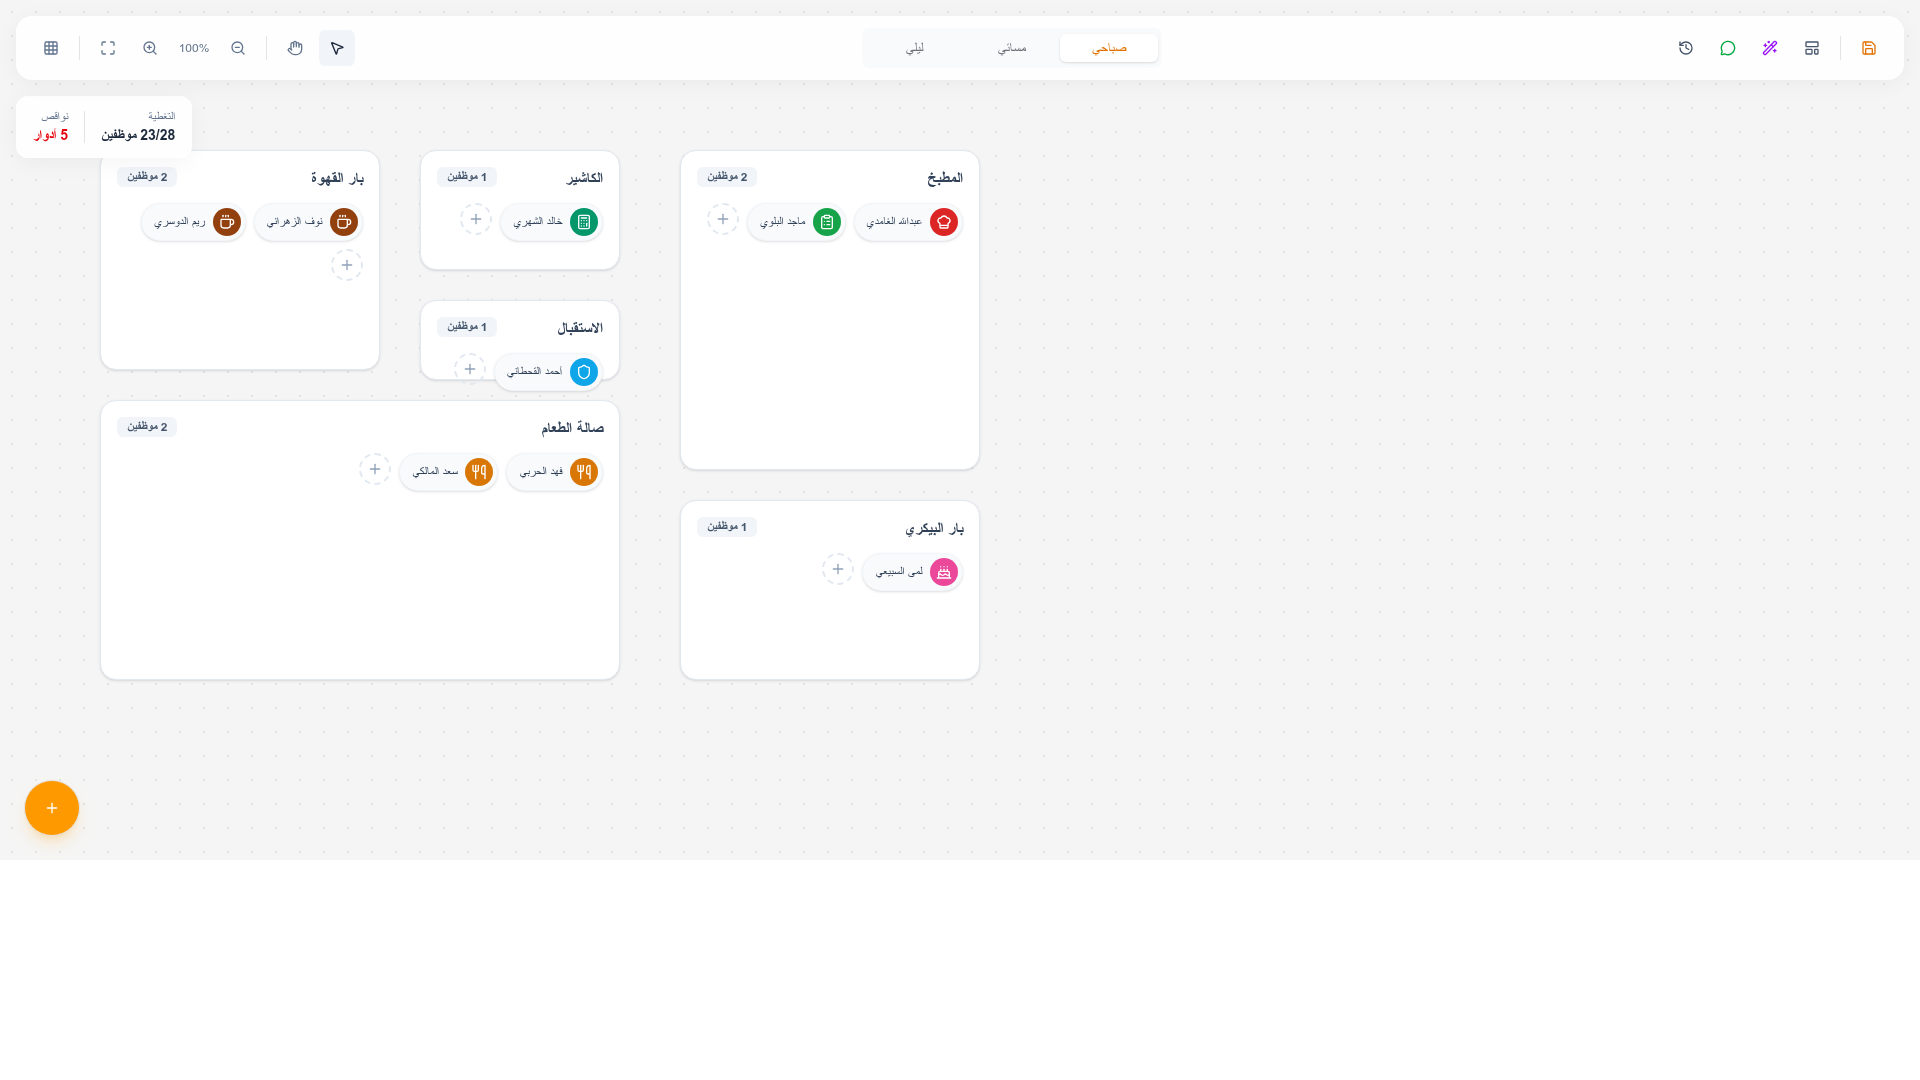
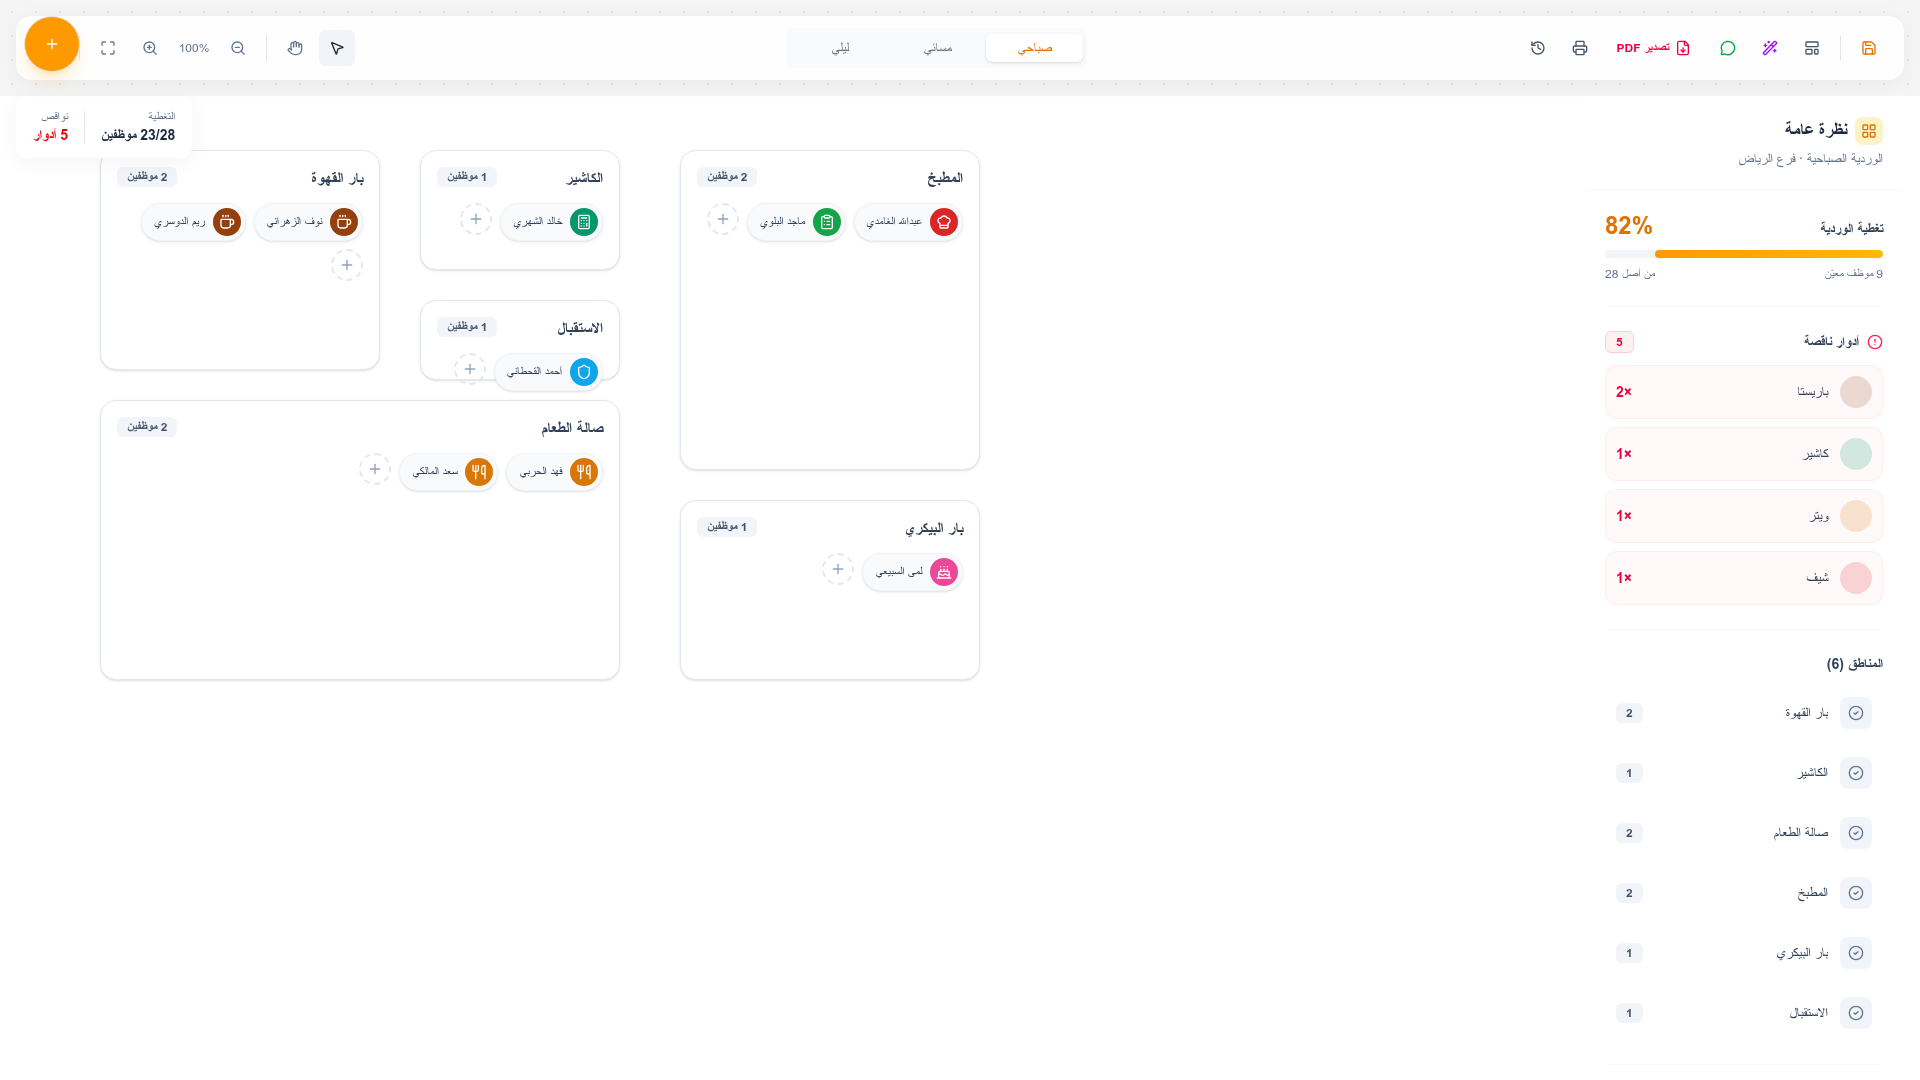
Add persistent sidebar and PDF export to floor plan view
Update the floor plan redesign component to include an always-visible sidebar with an overview, and add a PDF export button to the toolbar.

Replit-Commit-Author: Agent
Replit-Commit-Session-Id: e5fd94e0-1e8e-4852-8f43-6661ae21aa6f
Replit-Commit-Checkpoint-Type: full_checkpoint
Replit-Commit-Event-Id: b4d21e09-7a34-4f9b-8865-47b90dd0d802
Replit-Commit-Screenshot-Url: https://storage.googleapis.com/screenshot-production-us-central1/ccfdd11e-6206-49ce-b112-34cf69af608e/e5fd94e0-1e8e-4852-8f43-6661ae21aa6f/a0yk4Di
Replit-Helium-Checkpoint-Created: true

diff --git a/artifacts/mockup-sandbox/src/components/mockups/floor-plan-redesign/CompactInspector.tsx b/artifacts/mockup-sandbox/src/components/mockups/floor-plan-redesign/CompactInspector.tsx
@@ -4,7 +4,8 @@ import {
   Cake, Handshake, ClipboardList, Sparkles, 
   ZoomIn, ZoomOut, Maximize, Grid, Magnet, Lock, 
   Undo, Redo, Hand, Search, Save, Printer, History, 
-  LayoutTemplate, Wand2, MessageCircle, Plus, X, ChevronLeft, MoreHorizontal, UserPlus, SlidersHorizontal, MousePointer2
+  LayoutTemplate, Wand2, MessageCircle, Plus, X, ChevronLeft, MoreHorizontal, UserPlus, SlidersHorizontal, MousePointer2,
+  FileDown, LayoutGrid, AlertCircle, CheckCircle2
 } from 'lucide-react';
 import { Button } from '@/components/ui/button';
 import { Badge } from '@/components/ui/badge';
@@ -57,6 +58,13 @@ export function CompactInspector() {
   const [selectedZoneId, setSelectedZoneId] = useState<string | null>(null);
 
   const selectedZone = ZONES.find((z) => z.id === selectedZoneId);
+  const totalAssigned = ZONES.reduce((sum, z) => sum + z.employeeIds.length, 0);
+  const missingByRole = [
+    { role: 'باريستا', count: 2, color: '#92400e' },
+    { role: 'كاشير', count: 1, color: '#059669' },
+    { role: 'ويتر', count: 1, color: '#d97706' },
+    { role: 'شيف', count: 1, color: '#dc2626' },
+  ];
 
   return (
     <div className="butter-inspector-root relative w-full overflow-hidden flex flex-col" style={{ height: '860px' }} dir="rtl">
@@ -82,6 +90,19 @@ export function CompactInspector() {
             <Tooltip>
               <TooltipTrigger asChild><Button variant="ghost" size="icon" className="h-9 w-9 text-green-600 hover:text-green-700 hover:bg-green-50"><MessageCircle className="w-5 h-5" /></Button></TooltipTrigger>
               <TooltipContent>بث واتساب</TooltipContent>
+            </Tooltip>
+            <Tooltip>
+              <TooltipTrigger asChild>
+                <Button variant="ghost" size="sm" className="h-9 gap-1.5 px-3 text-rose-600 hover:text-rose-700 hover:bg-rose-50 font-semibold" onClick={() => window.print()}>
+                  <FileDown className="w-4 h-4" />
+                  <span className="text-xs">تصدير PDF</span>
+                </Button>
+              </TooltipTrigger>
+              <TooltipContent>تصدير الخطة بصيغة PDF</TooltipContent>
+            </Tooltip>
+            <Tooltip>
+              <TooltipTrigger asChild><Button variant="ghost" size="icon" className="h-9 w-9 text-slate-600"><Printer className="w-5 h-5" /></Button></TooltipTrigger>
+              <TooltipContent>طباعة</TooltipContent>
             </Tooltip>
             <Tooltip>
               <TooltipTrigger asChild><Button variant="ghost" size="icon" className="h-9 w-9 text-slate-600"><History className="w-5 h-5" /></Button></TooltipTrigger>
@@ -146,8 +167,8 @@ export function CompactInspector() {
         </div>
       </div>
 
-      {/* Canvas Area */}
-      <main className="flex-1 w-full h-full relative butter-canvas-pattern pt-24" onClick={() => setSelectedZoneId(null)}>
+      {/* Canvas Area — leave room on the right for the always-visible inspector */}
+      <main className="flex-1 h-full relative butter-canvas-pattern pt-24 pr-[336px]" onClick={() => setSelectedZoneId(null)}>
         {ZONES.map((zone) => (
           <div
             key={zone.id}
@@ -193,16 +214,19 @@ export function CompactInspector() {
         ))}
       </main>
 
-      {/* Floating Inspector Panel */}
-      <div 
-        className={`absolute top-24 right-4 bottom-24 w-80 butter-glass rounded-2xl border border-slate-200/60 shadow-xl transition-all duration-300 ease-out transform ${
-          selectedZoneId ? 'translate-x-0 opacity-100' : 'translate-x-8 opacity-0 pointer-events-none'
-        } flex flex-col z-20`}
+      {/* Always-visible Inspector Panel — overview when nothing selected, zone details when a zone is clicked */}
+      <aside
+        className="absolute top-24 right-4 bottom-6 w-80 butter-glass rounded-2xl border border-slate-200/60 shadow-xl flex flex-col z-20"
       >
-        {selectedZone && (
+        {selectedZone ? (
           <>
             <div className="p-5 border-b border-slate-100/50 flex justify-between items-start">
               <div>
+                <div className="flex items-center gap-2 text-xs text-slate-500 mb-1">
+                  <button onClick={() => setSelectedZoneId(null)} className="hover:text-amber-600 transition-colors">نظرة عامة</button>
+                  <ChevronLeft className="w-3 h-3 rotate-180" />
+                  <span>منطقة</span>
+                </div>
                 <h3 className="font-bold text-lg text-slate-800">{selectedZone.name}</h3>
                 <p className="text-sm text-slate-500 mt-1">تفاصيل المنطقة والتغطية</p>
               </div>
@@ -210,7 +234,7 @@ export function CompactInspector() {
                 <X className="w-4 h-4" />
               </Button>
             </div>
-            
+
             <ScrollArea className="flex-1 p-5" dir="rtl">
               <div className="space-y-6">
                 <div>
@@ -218,17 +242,17 @@ export function CompactInspector() {
                     <h4 className="text-sm font-bold text-slate-700">الموظفين المعينين</h4>
                     <Badge variant="outline" className="text-amber-600 border-amber-200 bg-amber-50">{selectedZone.employeeIds.length}</Badge>
                   </div>
-                  
+
                   <div className="space-y-2">
                     {selectedZone.employeeIds.map((empId) => {
                       const emp = EMPLOYEES.find(e => e.id === empId);
                       if (!emp) return null;
                       const role = ROLES[emp.roleId as keyof typeof ROLES];
                       const Icon = role.icon;
-                      
+
                       return (
                         <div key={emp.id} className="flex items-center gap-3 p-2 rounded-xl hover:bg-slate-50/80 transition-colors border border-transparent hover:border-slate-100 group">
-                          <div 
+                          <div
                             className={`w-10 h-10 rounded-full flex items-center justify-center text-white shrink-0 shadow-sm`}
                             style={{ backgroundColor: role.color }}
                           >
@@ -245,7 +269,7 @@ export function CompactInspector() {
                       );
                     })}
                   </div>
-                  
+
                   <Button variant="outline" className="w-full mt-3 bg-white/50 border-dashed text-slate-500 hover:text-amber-600 hover:border-amber-200 hover:bg-amber-50/50">
                     <UserPlus className="w-4 h-4 ml-2" />
                     تعيين موظف
@@ -271,8 +295,97 @@ export function CompactInspector() {
               </div>
             </ScrollArea>
           </>
+        ) : (
+          <>
+            <div className="p-5 border-b border-slate-100/50">
+              <div className="flex items-center gap-2 mb-1">
+                <div className="w-7 h-7 rounded-lg bg-amber-100 flex items-center justify-center text-amber-600">
+                  <LayoutGrid className="w-4 h-4" />
+                </div>
+                <h3 className="font-bold text-lg text-slate-800">نظرة عامة</h3>
+              </div>
+              <p className="text-sm text-slate-500">الوردية الصباحية · فرع الرياض</p>
+            </div>
+
+            <ScrollArea className="flex-1 p-5" dir="rtl">
+              <div className="space-y-6">
+                {/* Coverage progress */}
+                <div>
+                  <div className="flex justify-between items-baseline mb-2">
+                    <h4 className="text-sm font-bold text-slate-700">تغطية الوردية</h4>
+                    <span className="text-2xl font-extrabold text-amber-600 tabular-nums">82%</span>
+                  </div>
+                  <div className="h-2 w-full rounded-full bg-slate-100 overflow-hidden">
+                    <div className="h-full rounded-full bg-gradient-to-l from-amber-400 to-amber-500" style={{ width: '82%' }} />
+                  </div>
+                  <div className="flex justify-between text-xs text-slate-500 mt-2">
+                    <span>{totalAssigned} موظف معيّن</span>
+                    <span>من أصل 28</span>
+                  </div>
+                </div>
+
+                <Separator className="bg-slate-100/50" />
+
+                {/* Missing roles */}
+                <div>
+                  <div className="flex items-center gap-2 mb-3">
+                    <AlertCircle className="w-4 h-4 text-rose-500" />
+                    <h4 className="text-sm font-bold text-slate-700">أدوار ناقصة</h4>
+                    <Badge variant="outline" className="text-rose-600 border-rose-200 bg-rose-50 mr-auto">5</Badge>
+                  </div>
+                  <div className="space-y-2">
+                    {missingByRole.map((m) => (
+                      <div key={m.role} className="flex items-center gap-3 p-2.5 rounded-xl bg-rose-50/40 border border-rose-100/60">
+                        <div className="w-8 h-8 rounded-full shrink-0" style={{ backgroundColor: m.color, opacity: 0.18 }} />
+                        <span className="text-sm font-medium text-slate-700 flex-1">{m.role}</span>
+                        <span className="text-sm font-bold text-rose-600 tabular-nums">×{m.count}</span>
+                      </div>
+                    ))}
+                  </div>
+                </div>
+
+                <Separator className="bg-slate-100/50" />
+
+                {/* Zones list */}
+                <div>
+                  <h4 className="text-sm font-bold text-slate-700 mb-3">المناطق ({ZONES.length})</h4>
+                  <div className="space-y-1.5">
+                    {ZONES.map((z) => (
+                      <button
+                        key={z.id}
+                        onClick={(e) => { e.stopPropagation(); setSelectedZoneId(z.id); }}
+                        className="w-full flex items-center gap-3 p-2.5 rounded-xl hover:bg-amber-50/60 border border-transparent hover:border-amber-100 transition-colors text-right group"
+                      >
+                        <div className="w-8 h-8 rounded-lg bg-slate-100 group-hover:bg-amber-100 flex items-center justify-center text-slate-500 group-hover:text-amber-600 shrink-0">
+                          <CheckCircle2 className="w-4 h-4" />
+                        </div>
+                        <span className="text-sm font-medium text-slate-700 flex-1 truncate">{z.name}</span>
+                        <Badge variant="secondary" className="bg-slate-100 text-slate-600 border-none text-xs">
+                          {z.employeeIds.length}
+                        </Badge>
+                      </button>
+                    ))}
+                  </div>
+                </div>
+
+                <Separator className="bg-slate-100/50" />
+
+                {/* Export */}
+                <div className="space-y-2">
+                  <Button className="w-full bg-amber-500 hover:bg-amber-600 text-white shadow-sm shadow-amber-500/20" onClick={() => window.print()}>
+                    <FileDown className="w-4 h-4 ml-2" />
+                    تصدير الخطة (PDF)
+                  </Button>
+                  <Button variant="outline" className="w-full">
+                    <MessageCircle className="w-4 h-4 ml-2" />
+                    إرسال للموظفين (واتساب)
+                  </Button>
+                </div>
+              </div>
+            </ScrollArea>
+          </>
         )}
-      </div>
+      </aside>
 
       {/* Floating Action Button (Bottom Left) */}
       <div className="absolute bottom-6 left-6 z-20">
